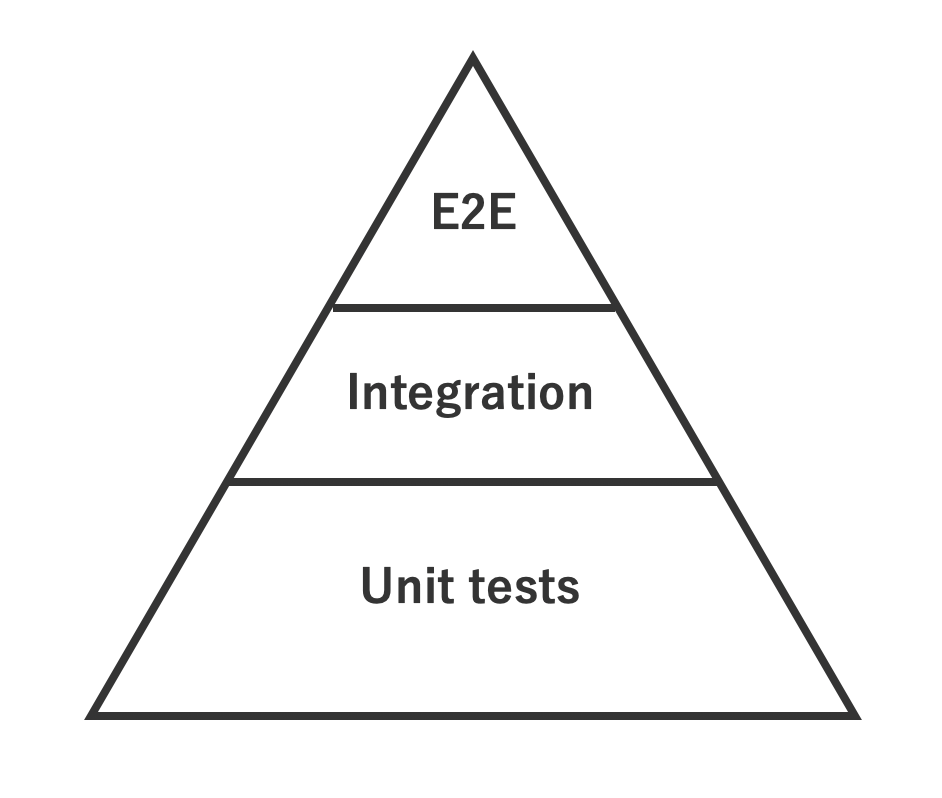
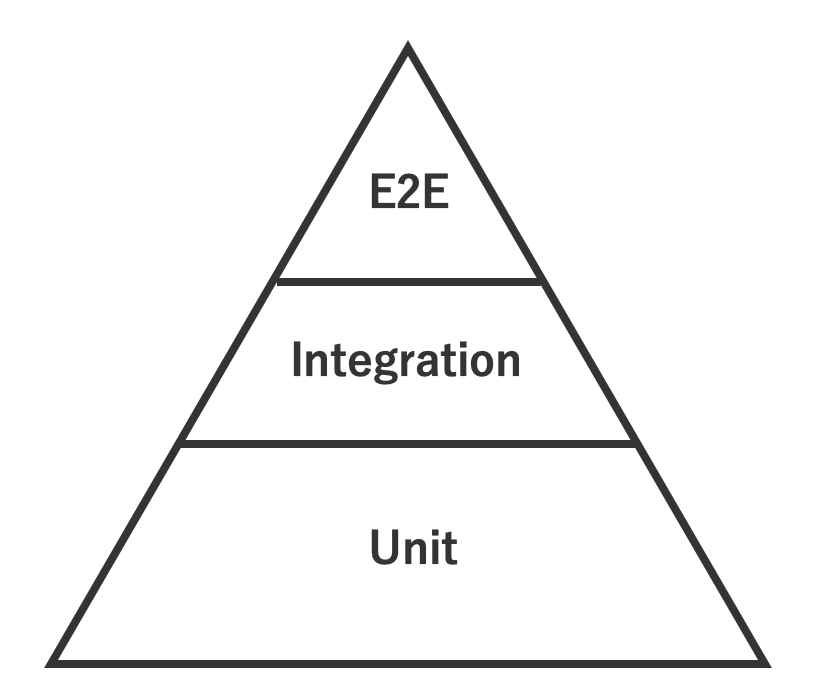
文章を変更

diff --git a/content/posts/aktsk-intern/index.md b/content/posts/aktsk-intern/index.md
@@ -17,7 +17,7 @@ share: true
 
 こんにちは、株式会社アカツキでインターンしている {{< link href="https://twitter.com/p1ass" text="@p1ass" >}} です。
 
-今回はインターンのタスクとしてゲーム内仮想通貨管理サービスの設計改善を行った上で分かった、コードの可読性やテスタビリティを向上させる工夫や、実際の作業を行う上で苦労したポイントを紹介します。
+今回は、ゲーム内仮想通貨管理サービスの設計改善を行った上で分かった、コードの可読性やテスタビリティを向上させる工夫や、実際の作業を行う上で苦労したポイントを紹介します。
 
 ## ゲーム内仮想通貨管理サービスとは
 
@@ -29,19 +29,21 @@ share: true
 
 今回の移行を行うことになった発端はライブラリ移行でした。
 
-このサービスはGAE/Goな環境で動いていて、データベースにはdatastoreが使われています。そして、datastoreへのアクセスは{{< link href="https://github.com/mjibson/goon" text="mjibson/goon" >}}というライブラリが使われているのですが、これの挙動が怪しいという話がありました。その流れでCTOの無茶振りにより、使用するライブラリを{{< link href="https://github.com/mercari/datastore" text="mercari/datastore" >}}に移行しようという話になり、自分が担当することになりました。
+このサービスはGAE上で動いていて、データベースにはdatastoreが使われています。datastoreへのアクセスには自動キャッシュをしていくれる{{< link href="https://github.com/mjibson/goon" text="mjibson/goon" >}}というライブラリを使っているのですが、微妙な実装になっている部分がありました。その流れで、使用するライブラリを{{< link href="https://github.com/mercari/datastore" text="mercari/datastore" >}}に移行しようという話になり、自分が担当することになりました。
 
 ## 現状の課題
 
 実際にライブラリを移行するにあたって既存のコードを読み進めたのですが、大きく2つの問題がありました。
 
-### ドメインロジックとdatastoreへのアクセスが密結合になっている
+### ドメインロジックとdatastoreへのアクセス処理が密結合になっている
 
-１つ目はドメインロジックとdatastoreへのアクセスが密結合になっているという問題です。この時の実装では、 `domain` パッケージの中に、実際のドメインロジックとdatastoreへのアクセスが両方書かれていました。インターフェースを用いた抽象化等も一切されておらず、手続き的にコードが書かれていました。そのため、コード量も多く、初めて読んだときはかなり読みづらいと感じました。
+１つ目はドメインロジックとdatastoreへのアクセス処理が密結合になっているという問題です。この時の実装では、 `domain` パッケージの中に、実際のドメインロジックとdatastoreへのアクセス処理が両方書かれていました。インターフェースを用いた抽象化等もされておらず、手続き的にコードが書かれていました。そのため、コード量も多く、初めて読んだときは少し読みづらいと感じました。
 
 ### ユニットテストが少なく、インテグレーションテストが多い
 
 2つ目はユニットテストが少なく、インテグレーションテストが多いという問題です。上で述べた通り、密結合になっているせいで、ユニットテストが書きづらく、結果としてインテグレーションテストが多くなっているように見えました。また、インテグレーションを行っているためそれなりのカバレッジが出ているのですが、実際はテストパターンをきちんと網羅できていないように思えました。
+
+また、「自動テストはユニットテストを多く、インテグレーションテストは少なくするべき」というtest automation pyramidの考え方に則っておらず、変更に弱そうに思えました。
 
 ![test automation pyramid](./test.png)
 _test automation pyramid_
@@ -49,11 +51,11 @@ _test automation pyramid_
 
 ## 設計改善
 
-現状の課題を考えると、このままライブラリを移行しようとすると今まで以上に複雑度が増してしまう可能性がありました。メンターさんと相談した結果、まずはdatastoreのアクセスを抽象化し、ドメインのロジックと分離してから、ライブラリの移行を行うことにしました。
+現状の課題を考えると、このままライブラリを移行しようとすると**今まで以上に複雑度が増してしまう可能性**がありました。メンターさんと相談した結果、まずはdatastoreのアクセスを抽象化し、ドメインのロジックと分離してから、ライブラリの移行を行うことにしました。
 
-具体的には、永続化処理を `Respository` インターフェースとして定義し、それを実装するように今までのdatastoreへのアクセス処理を分割しました。DIPで依存関係が逆転することで、 `domain` パッケージでは永続化の詳細を知る必要なくコードが書けることができるようにしました。
+具体的には、永続化処理を `Respository` インターフェースとして定義し、それを実装する構造体に今までのdatastoreへのアクセス処理を移行しました。DIPで依存関係が逆転することで、 `domain` パッケージでは永続化の詳細を知る必要なくコードが書けることができるようになりました。
 
-最終的には数千行のコードを変更し、リポジトリ全体の2割程度を変更することになりました。
+最終的には数千行のコードを変更し、リポジトリ全体の2割程度を変更して作業は終了しました。
 
 ## 設計改善で得られたメリット
 
@@ -62,11 +64,11 @@ _test automation pyramid_
 ### 疎結合な設計にすることができた
 
 密結合になっている問題は、インターフェースを使うことで、疎結合な設計にすることができました。
-疎結合な設計と言うと、最近はDDDやClean Architectureなどが流行っていますが、既存のアプリケーションに導入するコストを考えると、ある問題を解決するために必要なテクニックだけを部分的に導入するのは、かなりの効果が見込めると感じました。
+
 
 ### テスタビリティを向上させることができた
 
-永続化処理をインターフェースとして定義することでモックを流し込めるようになり、ユニットテストがとても書きやすくなりました。今までのテストコードはビジネスロジックのテストをするためだけに、事前にdatastoreにデータを流し込んだりしていましたが、モックのおかげでその必要はなくなり、宣言的に返り値を宣言するだけでよくなりました。
+永続化処理をインターフェースとして定義することでモックを流し込めるようになり、ユニットテストがとても書きやすくなりました。今までのテストコードはビジネスロジックのテストをするためだけに、事前にdatastoreにデータを流し込んだりしていましたが、モックのおかげでその必要はなくなり、返り値を宣言するだけでよくなりました。
 
 {{< highlight go >}}
 t.Parallel()
@@ -81,10 +83,10 @@ tests := []struct {
     {
         name: "return error when post failed",
         hoge: &types.Hoge{
-            HogeID:  "hogeID",
+            HogeID:  "invalid",
         },
         injector: func(r *mocks.MockHogeRepository) *mocks.MockHogeRepository {
-            r.EXPECT().Post(gomock.Any(), types.Hoge{HogeID: "hogeID"}).
+            r.EXPECT().Post(gomock.Any(), types.Hoge{HogeID: "invalid"}).
                 Return(nil, errors.New("some error"))
             return r
         },
@@ -119,12 +121,11 @@ for _, tt := range tests {
 }
 {{< / highlight>}}
 
-
-今の時点ではモックを使ったテストは少ないですが、今後モックを使ったユニットテストが増えていき、より堅牢なアプリケーションになっていくでしょう。
+今の時点ではモックを使ったテストは少ないですが、今後モックを使ったユニットテストが増えていくでしょう。
 
 ### コードの可読性が向上した
 
-永続化処理が抽象化され、ドメイン層では宣言的に呼ぶだけでよくなったことにより、コードがすっきりして可読性が向上しました。ひとつひとつの関数の行数が短くなったことで、なにをするための関数なのかが分かりやすくなりました。
+永続化処理が抽象化され、ドメイン層では宣言的に呼ぶだけでよくなったことにより、コードがすっきりして可読性が向上しました。ひとつひとつの関数の行数が短くなったことで、何をするための関数なのかが分かりやすくなりました。
 
 ### 将来的にDBを移行することになったときに移行が楽になる
 
@@ -139,34 +140,34 @@ for _, tt := range tests {
 
 しかし、中には複数のドメインロジックやdatastoreの永続化を一気にテストするインテグレーションテストが存在しており、これらを倒すのは一筋縄ではいきませんでした。お金を扱うサービスという性質上、複雑になるのは致し方ないことなので、自分のできる範囲で修正していきました。
 
-努力をしたものの、ドメインロジックをテストしているにも関わらず実際のdatastoreを使ってテストを行うという、あまりよろしくないテストが残念ながらいくつか残ってしまいました。ひとまずテスト用のパッケージを作ってテストコードを退避させていますが、将来的にはどうにかしなければいけないと思っています(しかしインターンはもう終了するので自分で直すことはできない)。
+努力をしたものの、いくつか**「ドメインロジックをテストしているにも関わらず実際のdatastoreを使うテスト」**が残ってしまいました。ひとまずテスト用のパッケージを作ってテストコードを退避させていますが、あまり適切ではないテストだと思っているので、将来的にはどうにかしなければいけないと思っています。
 
 ## 個人的に得られた知見
 
-### 根拠のある設計は多くのメリットを享受できる
-
 ここからはポエムです。
 
-私は以前からClean Architectureなどのアプリケーションレベルのアーキテクチャに興味を持っており、実際に趣味で開発しているコードでもClean Architectureライクなアーキテクチャを導入してみたりしていました。
+### 根拠のある設計は多くのメリットを享受できる
+
+私は以前からClean Architectureなどのアプリケーションレベルのアーキテクチャに興味を持っており、実際に趣味で開発しているコードでもClean Architecture**ライク**なアーキテクチャの導入を検討していました。
 
 {{< block-link href="https://www.amazon.co.jp/dp/4048930656/ref=cm_sw_r_tw_dp_U_x_1zCGDbBZ0R26Y" text="Clean Architecture 達人に学ぶソフトウェアの構造と設計"  >}}
 
 <a href="https://www.amazon.co.jp/%E4%B8%96%E7%95%8C%E3%81%A7%E9%97%98%E3%81%86%E3%83%97%E3%83%AD%E3%82%B0%E3%83%A9%E3%83%9F%E3%83%B3%E3%82%B0%E5%8A%9B%E3%82%92%E9%8D%9B%E3%81%88%E3%82%8B%E6%9C%AC-%E3%82%B3%E3%83%BC%E3%83%87%E3%82%A3%E3%83%B3%E3%82%B0%E9%9D%A2%E6%8E%A5189%E5%95%8F%E3%81%A8%E3%81%9D%E3%81%AE%E8%A7%A3%E6%B3%95-Gayle-Laakmann-McDowell/dp/4839960100/ref=as_li_ss_il?__mk_ja_JP=%E3%82%AB%E3%82%BF%E3%82%AB%E3%83%8A&crid=1JS9G2UP6EGVD&keywords=cracking+the+coding+interview&qid=1564644328&s=books&sprefix=Crac,stripbooks,254&sr=1-2&linkCode=li3&tag=plus03b7-22&linkId=b9f2fb658641220d349adc5de977481a&language=ja_JP" target="_blank"><img src="https://images-na.ssl-images-amazon.com/images/I/51LkcwTMC8L._SX387_BO1,204,203,200_.jpg" alt="Clean Architecture 達人に学ぶソフトウェアの構造と設計" ></a>
 
-その過程で、**「ただ冗長な書き方をしているだけでメリットがないのでは？」**と思うようになっていました。個人レベルのコードでは嬉しみが見えづらいものなので。
+しかし、個人レベルのコードでは嬉しみが見えづらいものなので、**「ただ冗長な書き方をしているだけでメリットがないのでは？」**と思うようになっていました。
 
 
-しかし、今回のインターンで、メリットを感じられなかったのはなんとなくアーキテクチャを採用していて、根拠を持っていなかったからだと気づきました。逆に、根拠を持って新たな設計手法を取り入れれば、上で述べたような多くのメリットを享受できます。
+しかし今回のインターンで、**「メリットを感じられなかったのはなんとなくアーキテクチャを採用していて、根拠を持っていなかったから」**だと気づきました。逆に、根拠を持って新たな設計手法を取り入れれば、上で述べたような多くのメリットを享受できます。
 
-世の中に山程ある設計手法はなにかしら目的を持って作られています。その目的が自分の開発しているプロダクトとマッチするかを考えて実装することが大事だと感じました。
+世の中にある設計手法はなにかしら目的を持って作られています。多くの場合は既存の開発で感じた辛みをなくすという目的でしょう。その目的が自分の開発しているプロダクトとマッチするかを考えて実装することがとても重要です。
 
-「開発しているプロダクトに本当にClean Architectureは必要なのか？本当に求めているのはDIPだけなのでは？」と考え、プロダクトにあった設計を心がけていきたいです。
+**「開発しているプロダクトに本当にClean Architectureは必要なのか？本当に求めているのはDIPだけなのでは？」**と考え、プロダクトにあった設計を心がけていきたいです。
 
 ## まとめ
 
-今回の設計改善を通し、より分かりやすい設計に出来たと思っています。もちろんこれが完璧ではなくまだまだ改善の余地がありますが、一定の効果は得られると思います。これでインターンは終わってしまいますが、このインターンで得られた知見を今後に生かしていきたいと思います。
+今回の設計改善により、明瞭な設計にすることができました。その結果、多くのメリットを享受することができました。もちろんこれが完璧ではなくまだまだ改善の余地がありますが、一定の効果は得られるでしょう。
 
-最後になりますが、大量のPRをレビューしてくださったメンターさんには感謝しかないです、本当にありがとうございました。
+これでインターンは終わってしまいますが、このインターンで得られた知見を今後に生かしていきたいと思います。最後になりますが、大量のPRをレビューしてくださったメンターさんには感謝しかないです、本当にありがとうございました。
 
 
 以上、最後までご覧いただきありがとうございました。
